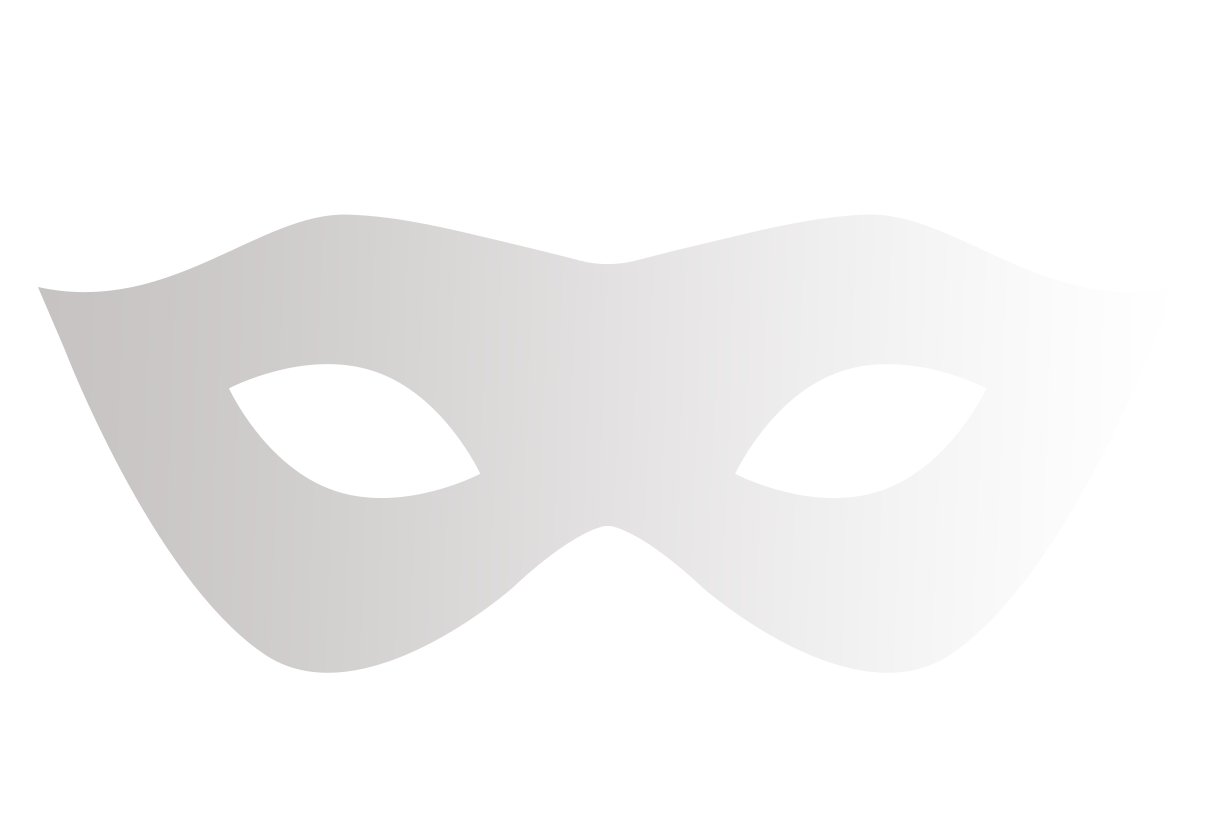
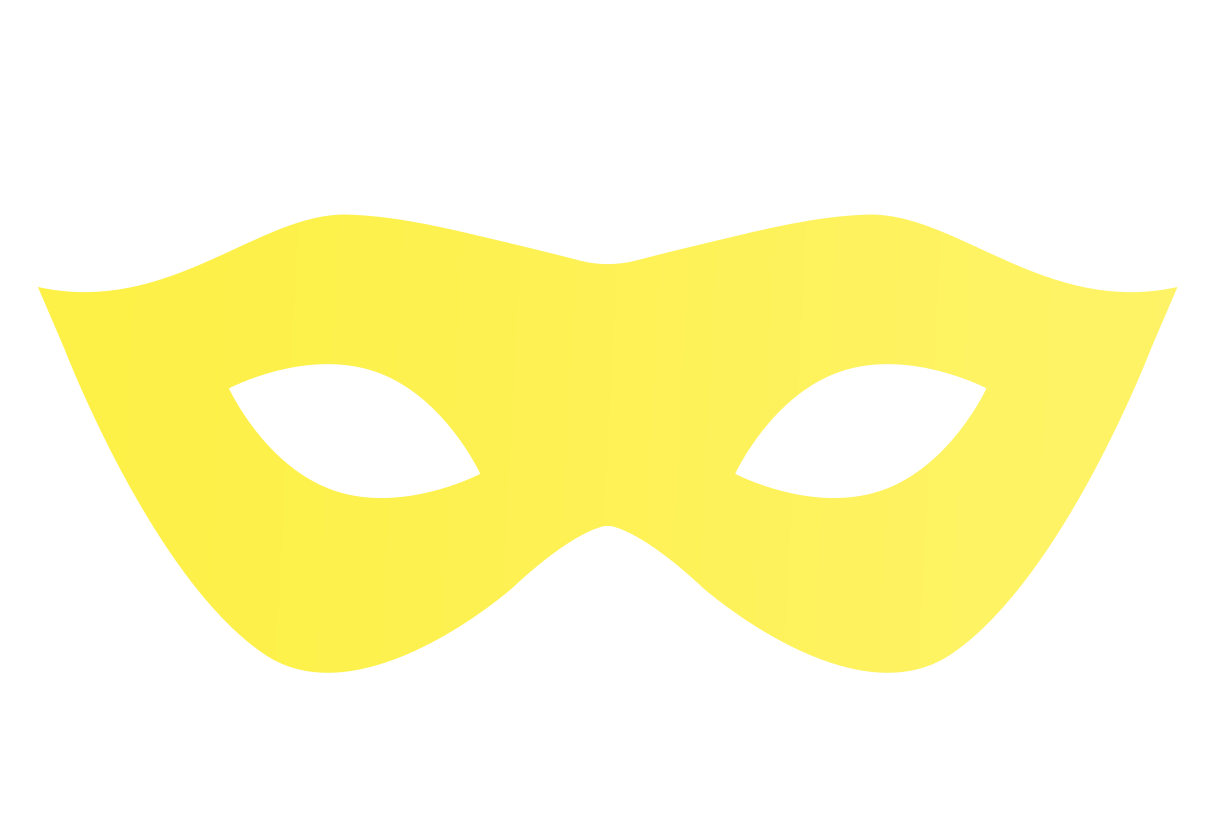
first commit

diff --git a/src/routes/p/[id].svelte b/src/routes/p/[id].svelte
@@ -66,7 +66,7 @@
   <!-- Profil -->
   <section>
     <!-- Photo profil -->
-    <article class="relative m-auto mb-5 w-[170px] rounded-[50px] bg-gradient-to-r from-[#e0e0e0] to-[#ececec] p-[3px] shadow-xl ">
+    <article class="relative m-auto mb-5 w-[170px] rounded-[50px] bg-gradient-to-r from-[#fdf046] to-[#fdf046] p-[3px] shadow-xl ">
       <img class="m-auto w-[200px] rounded-[50px] border-[5px] border-white" src="/profil.png" alt="mask" />
       <div class="absolute bottom-[5px] right-[5px] h-[25px] w-[25px] rounded-full border-4 border-[#f5f7f2] bg-[#31d275] " />
     </article>
@@ -96,7 +96,7 @@
 
   <!-- Vidéo et explication -->
   <section>
-    <section class="m-auto mt-4 w-[90%]  rounded-[30px] bg-gradient-to-r from-[#e0e0e0] to-[#ececec] p-1  shadow-xl">
+    <section class="m-auto mt-4 w-[90%]  rounded-[30px] bg-gradient-to-r from-[#fdf046] to-[#fdf046] p-1  shadow-xl">
       <img src="/proof.webp" alt="proof" class="rounded-[30px] border-[4px] border-white" />
     </section>
 
@@ -157,7 +157,7 @@
     </article>
 
     <article>
-      <div class="m-auto mt-4 w-[90%]  rounded-[30px] bg-gradient-to-r from-[#e0e0e0] to-[#ececec] p-1 shadow-xl">
+      <div class="m-auto mt-4 w-[90%]  rounded-[30px] bg-gradient-to-r from-[#fdf046] to-[#fdf046] p-1 shadow-xl">
         <img src="/reviews/rev1.jpg" alt="rev1" class="rounded-[30px] border-[4px] border-white" />
       </div>
 
@@ -165,14 +165,14 @@
     </article>
 
     <article>
-      <div class="m-auto mt-4 w-[90%] rounded-[30px] bg-gradient-to-r from-[#e0e0e0] to-[#ececec] p-1 shadow-xl">
+      <div class="m-auto mt-4 w-[90%] rounded-[30px] bg-gradient-to-r from-[#fdf046] to-[#fdf046] p-1 shadow-xl">
         <img src="/reviews/rev2.jpg" alt="rev1" class="rounded-[30px] border-[4px] border-white" />
       </div>
       <div class="m-auto mt-4  w-[90%] rounded-[30px]  bg-white p-4 text-center text-black">Pour ceux qui sont aussi sceptiques, testez au moins avec l'offre d'essai vous verrez que ça fonctionne vraiment ! 💯🔥</div>
     </article>
 
     <article>
-      <div class="m-auto mt-4 w-[90%]  rounded-[30px]  bg-gradient-to-r from-[#e0e0e0] to-[#ececec] p-1  shadow-xl ">
+      <div class="m-auto mt-4 w-[90%]  rounded-[30px]  bg-gradient-to-r from-[#fdf046] to-[#fdf046] p-1  shadow-xl ">
         <img src="/reviews/rev3.jpg" alt="rev1" class="rounded-[30px] border-[4px] border-white" />
       </div>
       <div class="m-auto mt-4 w-[90%] rounded-[30px] bg-white p-4 text-center text-black">Ce ne sont pas des escortes, donc seul l'abonnement au site est payant, mais vous pouvez ensuite contacter autant de filles que vous voulez. 👌</div>

diff --git a/src/app.html b/src/app.html
@@ -1,5 +1,5 @@
 <!DOCTYPE html>
-<html lang="en" class="bg-gradient-to-b from-[#e84463] to-[#e84463] h-screen bg-cover bg-fixed">
+<html lang="en" class="bg-gradient-to-b from-[#152837] to-[#152837] h-screen bg-cover bg-fixed">
 
 <head>
 	<meta http-equiv="Content-Type" content="text/html; charset=utf-8">
